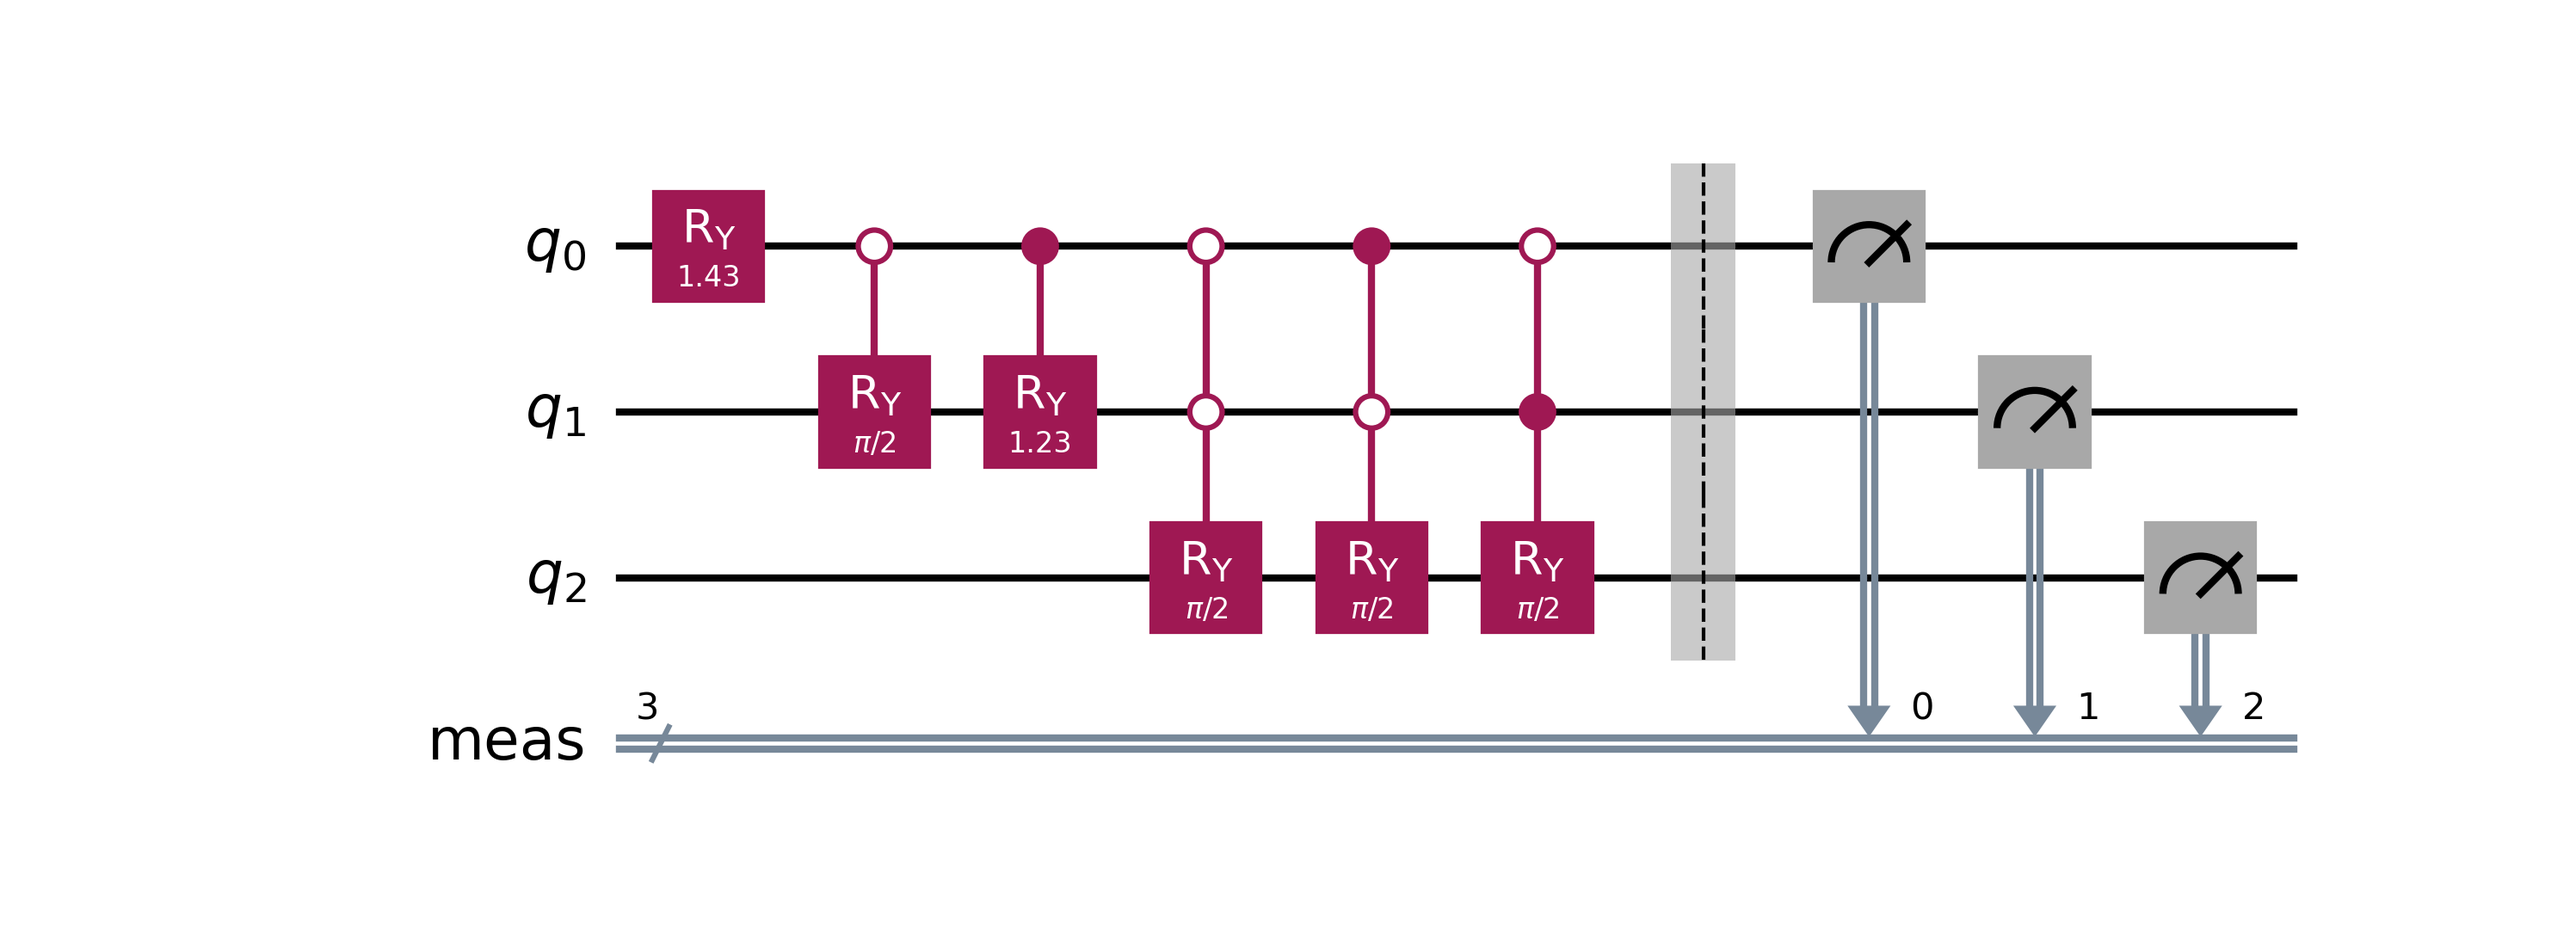
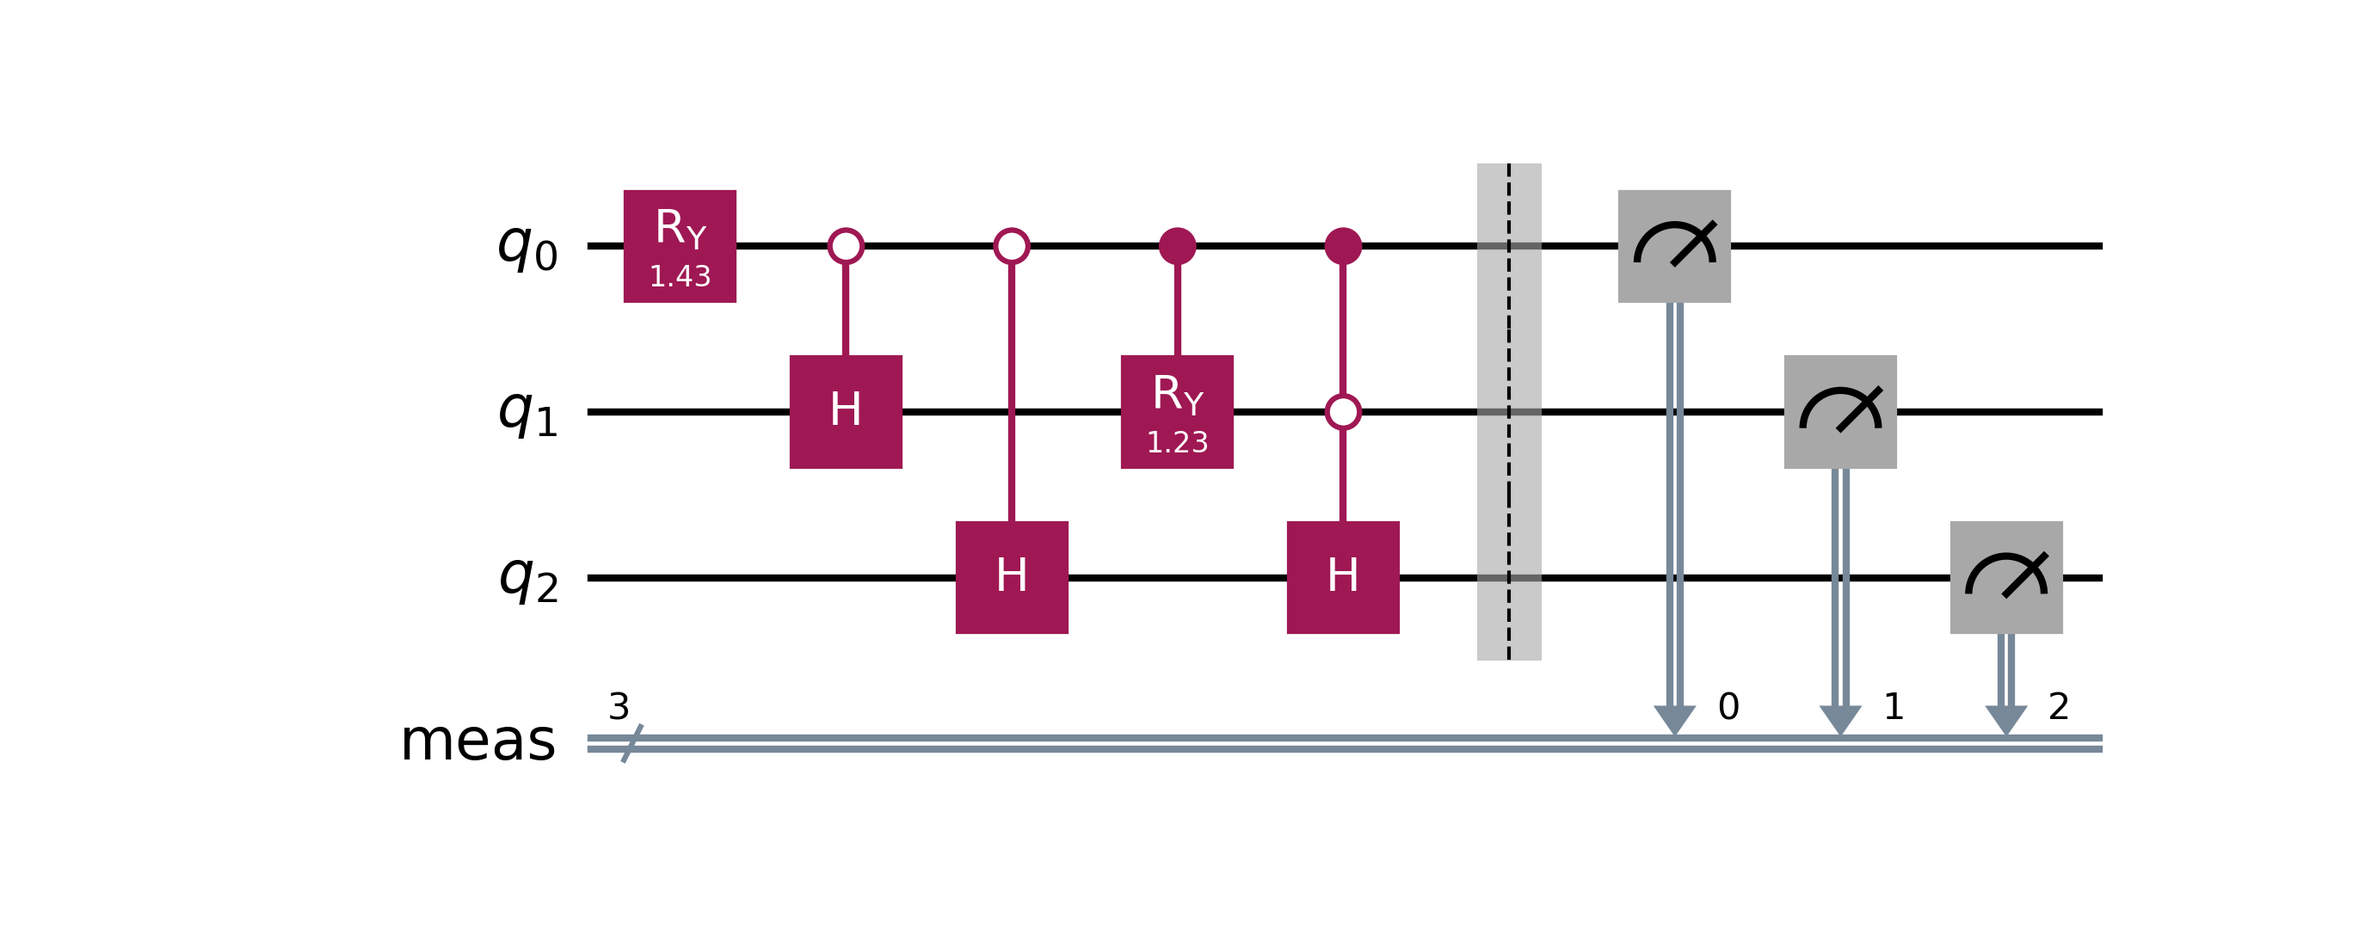
feat: workign

diff --git a/main.py b/main.py
@@ -1,56 +1,47 @@
 import math
-from itertools import product
 from qiskit import QuantumCircuit, transpile
-from qiskit.circuit.library import RYGate
+from qiskit.circuit.library import HGate, RYGate
 from qiskit_aer import AerSimulator
 
-def random_sample(N: int) -> QuantumCircuit:
+def _append_ctrl(qc, gate, ctrls, target, state):
+    if ctrls:
+        qc.append(gate.control(len(ctrls), ctrl_state=int(state[::-1], 2)), ctrls + [target])
+    else:
+        qc.append(gate, [target])
+
+def _prep(qc, qs, N, ctrls=None, state=""):
+    ctrls = ctrls or []
+    if N <= 1 or not qs: return
+    full = 1 << len(qs)
+    if N == full:
+        for q in qs: _append_ctrl(qc, HGate(), ctrls, q, state)
+        return
+
+    msb, rest = qs[0], qs[1:]
+    half = 1 << (len(qs) - 1)
+    left, right = min(N, half), N - min(N, half)
+    theta = 2 * math.acos((left / N) ** 0.5)
+    _append_ctrl(qc, RYGate(theta), ctrls, msb, state)
+
+    if left:  _prep(qc, rest, left,  ctrls + [msb], state + "0")
+    if right: _prep(qc, rest, right, ctrls + [msb], state + "1")
+
+def uniform_first_N(N):
     k = math.ceil(math.log2(N))
     qc = QuantumCircuit(k)
-
-    def count(N, k, p):
-        t = len(p); v = 0
-        for b in p: v = (v << 1) | b
-        span = 1 << (k - t)
-        lo = v << (k - t); hi = lo + span - 1
-        if lo >= N: return 0
-        return max(0, min(N, hi + 1) - lo)
-
-    for t in range(k):
-        for p in product([0, 1], repeat=t):
-            c = count(N, k, p)
-            if c == 0: continue
-            c0 = count(N, k, p + (0,))
-            c1 = c - c0
-            if c0 == 0 or c1 == 0: continue
-
-            theta = 2 * math.acos((c0 / c) ** 0.5)
-
-            if t == 0:
-                qc.ry(theta, 0)
-            else:
-                # Control directly on the prefix pattern p via ctrl_state
-                ctrl_qubits = list(range(t))
-                target = t
-                ctrl_state = ''.join(str(bit) for bit in p)  # e.g. p=(0,1) -> "01"
-                qc.append(RYGate(theta).control(t, ctrl_state=ctrl_state),
-                          ctrl_qubits + [target])
-
+    _prep(qc, list(range(k)), N)
     return qc
 
 if __name__ == "__main__":
     N = 7
-    qc = random_sample(N)
+    qc = uniform_first_N(N)
     qc.measure_all()
-    try:
-        qc.draw('mpl').savefig("circuit.png", dpi=300)
-    except Exception:
-        pass
+    qc.draw('mpl').savefig("circuit.png", dpi=300)
 
     sim = AerSimulator()
-    job = sim.run(transpile(qc, sim, optimization_level=3), shots=5000)
-    counts = job.result().get_counts()
+    res = sim.run(transpile(qc, sim, optimization_level=3), shots=8000).result()
+    counts = res.get_counts()
 
-    print("Measurement counts:")
-    for state, c in sorted(counts.items(), key=lambda x: int(x[0][::-1], 2)):
-        print(f"{int(state[::-1], 2):2d}: {c}")
+    print(f"Uniform over 0..{N-1}:")
+    for s, c in sorted(counts.items(), key=lambda x: int(x[0][::-1], 2)):
+        print(f"{int(s[::-1], 2):2d}: {c}")

diff --git a/complement.py b/complement.py
@@ -1,0 +1,72 @@
+import math
+from itertools import product
+from qiskit import QuantumCircuit, transpile
+from qiskit.circuit.library import RYGate
+from qiskit_aer import AerSimulator
+
+def random_sample(N: int) -> QuantumCircuit:
+    k = math.ceil(math.log2(N))
+    qc = QuantumCircuit(k)
+
+    # count how many x < N share prefix p (p is a tuple of bits, LSB-first)
+    def count(p):
+        t = len(p); v = 0
+        for b in p: v = (v << 1) | b
+        span = 1 << (k - t)
+        lo = v << (k - t); hi = lo + span - 1
+        if lo >= N: return 0
+        return max(0, min(N, hi + 1) - lo)
+
+    for t in range(k):
+        # baseline even split on the next bit
+        qc.h(t)
+
+        # corrections where split isn't 50-50
+        for p in product([0, 1], repeat=t):
+            c = count(p)
+            if c == 0:
+                continue
+            c0 = count(p + (0,))
+            c1 = c - c0
+
+            if c0 == 0 or c1 == 0:
+                theta = 0.0 if c0 == c else math.pi
+            else:
+                theta = 2 * math.acos((c0 / c) ** 0.5)
+
+            delta = theta - (math.pi / 2)
+            if abs(delta) < 1e-12:
+                continue
+
+            if t == 0:
+                qc.ry(delta, 0)
+            else:
+                ctrl_qubits = list(range(t))   # [0, 1, ..., t-1]
+                target = t
+                # IMPORTANT: ctrl_state is MSB->LSB aligned to ctrl_qubits order,
+                # while p is LSB-first; so reverse p here.
+                ctrl_state = int(''.join(str(bit) for bit in reversed(p)), 2)
+                qc.append(
+                    RYGate(delta).control(t, ctrl_state=ctrl_state),
+                    ctrl_qubits + [target]
+                )
+
+    return qc
+
+if __name__ == "__main__":
+    N = 33
+    qc = random_sample(N)
+    qc.measure_all()
+
+    try:
+        qc.draw('mpl').savefig("circuit_complement_even_split.png", dpi=300)
+    except Exception:
+        pass
+
+    sim = AerSimulator()
+    qc_opt = transpile(qc, sim, optimization_level=3)
+    res = sim.run(qc_opt, shots=5000).result().get_counts()
+
+    print("Measurement counts:")
+    for state, c in sorted(res.items(), key=lambda x: int(x[0][::-1], 2)):
+        print(f"{int(state[::-1], 2):2d}: {c}")

diff --git a/test.py b/test.py
@@ -1,0 +1,36 @@
+import math
+from qiskit import QuantumCircuit, transpile
+from qiskit.circuit.library import RYGate, HGate
+from qiskit_aer import AerSimulator
+
+def block(n, N):
+    qc = QuantumCircuit(n)
+    def build(qs, N):
+        k = len(qs)
+        if N == 0 or k == 0: return
+        if N == (1 << k):
+            for q in qs: qc.h(q); return
+        m = 1 << (k-1); msb, low = qs[-1], qs[:-1]
+        if N <= m: build(low, N); return
+        L, R = m, N - m
+        qc.ry(2*math.acos((L/N)**0.5), msb)
+        for q in low: qc.append(HGate().control(1, ctrl_state='0'), [msb, q])
+        if R: qc.append(block(len(low), R).control(1, ctrl_state='1'), [msb] + low)
+    build(list(range(n)), N)
+    return qc.to_gate()
+
+def random_sample(N: int) -> QuantumCircuit:
+    k = math.ceil(math.log2(N))
+    qc = QuantumCircuit(k)
+    qc.append(block(k, N), range(k))
+    return qc
+
+if __name__ == "__main__":
+    N = 9
+    qc = random_sample(N)
+    qc.measure_all()
+    qc.draw('mpl').savefig("circuit.png", dpi=300)
+    sim = AerSimulator()
+    res = sim.run(transpile(qc, sim, optimization_level=3), shots=5000).result().get_counts()
+    for s,c in sorted(res.items(), key=lambda x:int(x[0][::-1],2)):
+        print(int(s[::-1],2), c)

diff --git a/anticontrol.py b/anticontrol.py
@@ -39,7 +39,7 @@ def random_sample(N: int) -> QuantumCircuit:
     return qc
 
 if __name__ == "__main__":
-    N = 7
+    N = 9
     qc = random_sample(N)
     qc.measure_all()
     try:

diff --git a/working.py b/working.py
@@ -46,7 +46,7 @@ def random_sample(N: int) -> QuantumCircuit:
     return qc
 
 
-N = 7
+N = 6
 qc = random_sample(N)
 qc.measure_all()
 qc.draw('mpl').savefig("circuit.png", dpi=300)
